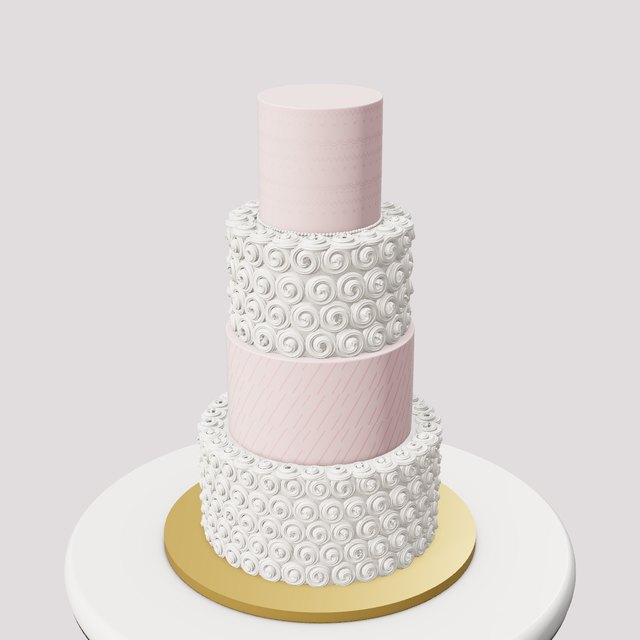
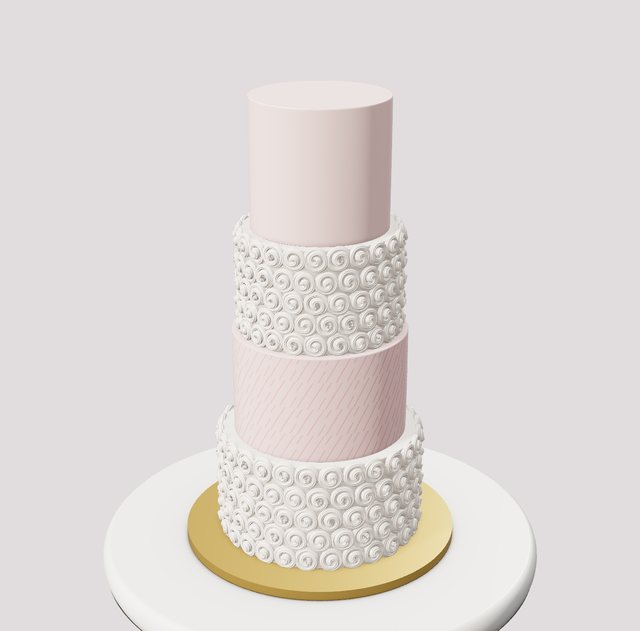
Signature cakes round 8: teal side cascade, rosette tower proportions
Claude-Session: https://claude.ai/code/session_016sN14hzH19WJ5zrp8o2QGp

diff --git a/studio.html b/studio.html
@@ -1557,15 +1557,15 @@ THEMES.unshift(
   newTier(10.6,5.4,{shape:'hexagon',color:'#cfa95f',finish:'fondant',texture:'golf',goldLeaf:true,top:'none',bottom:'none'}),
   newTier(8.6,6.2,{color:'#fbf7f1',finish:'fondant',top:'none',bottom:'none',stencil:{pattern:'pleats',color:'#ddd2c4',size:2.2,height:6.2}}),
   newTier(6.6,7,{color:'#d8b66a',finish:'fondant',goldLeaf:true,top:'pearls',pipe:'#d4ae5a',bottom:'pearls',bottomColor:'#d4ae5a',decor:[DC('monohoop','cluster',1,{color:'#d4ae5a',size:300,center:true,face:95})]})]}},
- {key:'sig_rosettower',name:'Blush Rosette Tower',tag:SIG,blurb:'White rosette tiers around a blush pleated tier, with a tall blush top tier in lace and a gold board.',d:{board:'gold',topper:'none',tiers:[
-  newTier(10,5,{texture:'rosettes',top:'none',bottom:'none'}),
-  newTier(8,4.6,{color:'#f3cfd3',finish:'fondant',top:'none',bottom:'none',stencil:{pattern:'pleats',color:'#e6b0b8',size:1.6,height:4.6}}),
-  newTier(7,4.6,{texture:'rosettes',top:'none',bottom:'none'}),
-  newTier(5,5.2,{color:'#f3cfd3',finish:'fondant',top:'none',bottom:'dpearls',bottomColor:'#fbf7f1',stencil:{pattern:'lace',color:'#e6c0c6',size:1.8,height:4.2,y:.4}})]}},
- {key:'sig_teal',name:'Teal Bauble Cascade',tag:SIG,blurb:'Three teal fondant tiers, a harlequin bottom tier and a cascade of glittery bronze, ivory and teal spheres with sprinkles.',d:{board:'white',boardColor:'#e9eaec',topper:'none',tiers:[
-  newTier(9,5,{color:'#7cc8b8',finish:'fondant',top:'none',bottom:'none',stencil:{pattern:'harlequin',color:'#c4e8df',size:1.6,height:4.6},decor:[DC('glitterspheres','cascade',6,{color:'#b0825f',rot:-30,size:300}),DC('glitterspheres','cascade',5,{color:'#f3ead8',rot:-26,size:310}),DC('spheres','cascade',4,{color:'#5fb3a3',rot:-34,size:300}),DC('glitterspheres','cascade',4,{color:'#8c6a52',rot:-30,size:230}),DC('sprinkles','cascade',160,{mix:['#5fb3a3','#d4ae5a','#c9ccd2','#fbf7f1'],rot:-24})]}),
-  newTier(7,5,{color:'#7cc8b8',finish:'fondant',top:'none',bottom:'none',decor:[DC('glitterspheres','cascade',5,{color:'#b0825f',rot:-32,size:300}),DC('glitterspheres','cascade',4,{color:'#f3ead8',rot:-26,size:300}),DC('spheres','cascade',3,{color:'#5fb3a3',rot:-36,size:290}),DC('glitterspheres','cascade',3,{color:'#8c6a52',rot:-30,size:220}),DC('sprinkles','cascade',160,{mix:['#5fb3a3','#d4ae5a','#c9ccd2','#fbf7f1'],rot:-24})]}),
-  newTier(6,4.8,{color:'#7cc8b8',finish:'fondant',top:'none',bottom:'none',decor:[DC('glitterspheres','cluster',5,{color:'#b0825f',size:330}),DC('glitterspheres','cluster',4,{color:'#f3ead8',size:310}),DC('spheres','cluster',3,{color:'#5fb3a3',size:300}),DC('glitterspheres','cascade',4,{color:'#b0825f',rot:-30,size:260}),DC('glitterspheres','cascade',3,{color:'#f3ead8',rot:-28,size:260}),DC('sprinkles','cascade',130,{mix:['#5fb3a3','#d4ae5a','#c9ccd2','#fbf7f1'],rot:-24})]})]}},
+ {key:'sig_rosettower',name:'Blush Rosette Tower',tag:SIG,blurb:'Ivory rosette tiers around a blush tier with diagonal fondant pleats, and a tall smooth blush top tier on a gold board.',d:{board:'gold',topper:'none',tiers:[
+  newTier(10,5.6,{texture:'rosettes',color:'#fbf3ea',top:'none',bottom:'none'}),
+  newTier(8.8,5.4,{color:'#f1cfcf',finish:'fondant',top:'none',bottom:'none',stencil:{pattern:'pleats',color:'#d9a7aa',size:1.4,height:5.4}}),
+  newTier(7.8,5.2,{texture:'rosettes',color:'#fbf3ea',top:'none',bottom:'none'}),
+  newTier(6.8,6.4,{color:'#f4d6d4',finish:'fondant',top:'none',bottom:'none'})]}},
+ {key:'sig_teal',name:'Teal Bauble Cascade',tag:SIG,blurb:'Three tall teal fondant tiers, a harlequin bottom tier and a column of glittery bronze, ivory and teal spheres cascading down one side, with sprinkles.',d:{board:'white',boardColor:'#e9eaec',topper:'none',tiers:[
+  newTier(8.6,6,{color:'#7cc8b8',finish:'fondant',top:'none',bottom:'none',stencil:{pattern:'harlequin',color:'#c4e8df',size:1.6,height:3,y:-1.4},decor:[DC('glitterspheres','cascade',6,{color:'#b0825f',rot:-100,size:290}),DC('glitterspheres','cascade',5,{color:'#f3ead8',rot:-96,size:300}),DC('spheres','cascade',3,{color:'#5fb3a3',rot:-104,size:280}),DC('glitterspheres','cascade',4,{color:'#8c6a52',rot:-100,size:220})]}),
+  newTier(7.6,5.8,{color:'#7cc8b8',finish:'fondant',top:'none',bottom:'none',decor:[DC('glitterspheres','cascade',5,{color:'#b0825f',rot:-100,size:280}),DC('glitterspheres','cascade',4,{color:'#f3ead8',rot:-96,size:290}),DC('spheres','cascade',3,{color:'#5fb3a3',rot:-104,size:270}),DC('glitterspheres','cascade',3,{color:'#8c6a52',rot:-100,size:210})]}),
+  newTier(6.6,5.6,{color:'#7cc8b8',finish:'fondant',top:'none',bottom:'none',decor:[DC('glitterspheres','cascade',5,{color:'#b0825f',rot:-100,size:270}),DC('glitterspheres','cascade',4,{color:'#f3ead8',rot:-96,size:280}),DC('spheres','cascade',3,{color:'#5fb3a3',rot:-104,size:260}),DC('sprinkles','cascade',220,{mix:['#5fb3a3','#d4ae5a','#c9ccd2','#fbf7f1'],rot:30})]})]}},
  {key:'sig_cow',name:'Pink Bow Cow',tag:SIG,blurb:'A tall white cow cake with black spots, a cartoon face and pink nose, black horns, floppy ears and pink bows.',d:{board:'white',boardColor:'#fbf7f1',topper:'none',tiers:[
   newTier(7,6,{color:'#ffffff',finish:'fondant',print:'cow',printColor:'#1d1b1f',top:'none',bottom:'none',decor:[DC('cowface','band',1,{color:'#f3a6c0',size:285,R:3.5,rot:55}),DC('cowtop','cluster',1,{color:'#f3a6c0',size:170,center:true,face:95})]})]}},
  {key:'sig_pillows',name:'Gold Damask Pillows',tag:SIG,blurb:'A pillow cake: a base tier in gold damask with a ring of ivory roses, a puffy pleated pillow with pinched corners and gold tassels, and a silver rose dome topped with ivory roses.',d:{board:'silver',boardShape:'square',topper:'none',tiers:[

diff --git a/tools/signature-decor.js b/tools/signature-decor.js
@@ -225,15 +225,15 @@ THEMES.unshift(
   newTier(10.6,5.4,{shape:'hexagon',color:'#cfa95f',finish:'fondant',texture:'golf',goldLeaf:true,top:'none',bottom:'none'}),
   newTier(8.6,6.2,{color:'#fbf7f1',finish:'fondant',top:'none',bottom:'none',stencil:{pattern:'pleats',color:'#ddd2c4',size:2.2,height:6.2}}),
   newTier(6.6,7,{color:'#d8b66a',finish:'fondant',goldLeaf:true,top:'pearls',pipe:'#d4ae5a',bottom:'pearls',bottomColor:'#d4ae5a',decor:[DC('monohoop','cluster',1,{color:'#d4ae5a',size:300,center:true,face:95})]})]}},
- {key:'sig_rosettower',name:'Blush Rosette Tower',tag:SIG,blurb:'White rosette tiers around a blush pleated tier, with a tall blush top tier in lace and a gold board.',d:{board:'gold',topper:'none',tiers:[
-  newTier(10,5,{texture:'rosettes',top:'none',bottom:'none'}),
-  newTier(8,4.6,{color:'#f3cfd3',finish:'fondant',top:'none',bottom:'none',stencil:{pattern:'pleats',color:'#e6b0b8',size:1.6,height:4.6}}),
-  newTier(7,4.6,{texture:'rosettes',top:'none',bottom:'none'}),
-  newTier(5,5.2,{color:'#f3cfd3',finish:'fondant',top:'none',bottom:'dpearls',bottomColor:'#fbf7f1',stencil:{pattern:'lace',color:'#e6c0c6',size:1.8,height:4.2,y:.4}})]}},
- {key:'sig_teal',name:'Teal Bauble Cascade',tag:SIG,blurb:'Three teal fondant tiers, a harlequin bottom tier and a cascade of glittery bronze, ivory and teal spheres with sprinkles.',d:{board:'white',boardColor:'#e9eaec',topper:'none',tiers:[
-  newTier(9,5,{color:'#7cc8b8',finish:'fondant',top:'none',bottom:'none',stencil:{pattern:'harlequin',color:'#c4e8df',size:1.6,height:4.6},decor:[DC('glitterspheres','cascade',6,{color:'#b0825f',rot:-30,size:300}),DC('glitterspheres','cascade',5,{color:'#f3ead8',rot:-26,size:310}),DC('spheres','cascade',4,{color:'#5fb3a3',rot:-34,size:300}),DC('glitterspheres','cascade',4,{color:'#8c6a52',rot:-30,size:230}),DC('sprinkles','cascade',160,{mix:['#5fb3a3','#d4ae5a','#c9ccd2','#fbf7f1'],rot:-24})]}),
-  newTier(7,5,{color:'#7cc8b8',finish:'fondant',top:'none',bottom:'none',decor:[DC('glitterspheres','cascade',5,{color:'#b0825f',rot:-32,size:300}),DC('glitterspheres','cascade',4,{color:'#f3ead8',rot:-26,size:300}),DC('spheres','cascade',3,{color:'#5fb3a3',rot:-36,size:290}),DC('glitterspheres','cascade',3,{color:'#8c6a52',rot:-30,size:220}),DC('sprinkles','cascade',160,{mix:['#5fb3a3','#d4ae5a','#c9ccd2','#fbf7f1'],rot:-24})]}),
-  newTier(6,4.8,{color:'#7cc8b8',finish:'fondant',top:'none',bottom:'none',decor:[DC('glitterspheres','cluster',5,{color:'#b0825f',size:330}),DC('glitterspheres','cluster',4,{color:'#f3ead8',size:310}),DC('spheres','cluster',3,{color:'#5fb3a3',size:300}),DC('glitterspheres','cascade',4,{color:'#b0825f',rot:-30,size:260}),DC('glitterspheres','cascade',3,{color:'#f3ead8',rot:-28,size:260}),DC('sprinkles','cascade',130,{mix:['#5fb3a3','#d4ae5a','#c9ccd2','#fbf7f1'],rot:-24})]})]}},
+ {key:'sig_rosettower',name:'Blush Rosette Tower',tag:SIG,blurb:'Ivory rosette tiers around a blush tier with diagonal fondant pleats, and a tall smooth blush top tier on a gold board.',d:{board:'gold',topper:'none',tiers:[
+  newTier(10,5.6,{texture:'rosettes',color:'#fbf3ea',top:'none',bottom:'none'}),
+  newTier(8.8,5.4,{color:'#f1cfcf',finish:'fondant',top:'none',bottom:'none',stencil:{pattern:'pleats',color:'#d9a7aa',size:1.4,height:5.4}}),
+  newTier(7.8,5.2,{texture:'rosettes',color:'#fbf3ea',top:'none',bottom:'none'}),
+  newTier(6.8,6.4,{color:'#f4d6d4',finish:'fondant',top:'none',bottom:'none'})]}},
+ {key:'sig_teal',name:'Teal Bauble Cascade',tag:SIG,blurb:'Three tall teal fondant tiers, a harlequin bottom tier and a column of glittery bronze, ivory and teal spheres cascading down one side, with sprinkles.',d:{board:'white',boardColor:'#e9eaec',topper:'none',tiers:[
+  newTier(8.6,6,{color:'#7cc8b8',finish:'fondant',top:'none',bottom:'none',stencil:{pattern:'harlequin',color:'#c4e8df',size:1.6,height:3,y:-1.4},decor:[DC('glitterspheres','cascade',6,{color:'#b0825f',rot:-100,size:290}),DC('glitterspheres','cascade',5,{color:'#f3ead8',rot:-96,size:300}),DC('spheres','cascade',3,{color:'#5fb3a3',rot:-104,size:280}),DC('glitterspheres','cascade',4,{color:'#8c6a52',rot:-100,size:220})]}),
+  newTier(7.6,5.8,{color:'#7cc8b8',finish:'fondant',top:'none',bottom:'none',decor:[DC('glitterspheres','cascade',5,{color:'#b0825f',rot:-100,size:280}),DC('glitterspheres','cascade',4,{color:'#f3ead8',rot:-96,size:290}),DC('spheres','cascade',3,{color:'#5fb3a3',rot:-104,size:270}),DC('glitterspheres','cascade',3,{color:'#8c6a52',rot:-100,size:210})]}),
+  newTier(6.6,5.6,{color:'#7cc8b8',finish:'fondant',top:'none',bottom:'none',decor:[DC('glitterspheres','cascade',5,{color:'#b0825f',rot:-100,size:270}),DC('glitterspheres','cascade',4,{color:'#f3ead8',rot:-96,size:280}),DC('spheres','cascade',3,{color:'#5fb3a3',rot:-104,size:260}),DC('sprinkles','cascade',220,{mix:['#5fb3a3','#d4ae5a','#c9ccd2','#fbf7f1'],rot:30})]})]}},
  {key:'sig_cow',name:'Pink Bow Cow',tag:SIG,blurb:'A tall white cow cake with black spots, a cartoon face and pink nose, black horns, floppy ears and pink bows.',d:{board:'white',boardColor:'#fbf7f1',topper:'none',tiers:[
   newTier(7,6,{color:'#ffffff',finish:'fondant',print:'cow',printColor:'#1d1b1f',top:'none',bottom:'none',decor:[DC('cowface','band',1,{color:'#f3a6c0',size:285,R:3.5,rot:55}),DC('cowtop','cluster',1,{color:'#f3a6c0',size:170,center:true,face:95})]})]}},
  {key:'sig_pillows',name:'Gold Damask Pillows',tag:SIG,blurb:'A pillow cake: a base tier in gold damask with a ring of ivory roses, a puffy pleated pillow with pinched corners and gold tassels, and a silver rose dome topped with ivory roses.',d:{board:'silver',boardShape:'square',topper:'none',tiers:[

diff --git a/tools/sig-themes.js b/tools/sig-themes.js
@@ -12,15 +12,15 @@ THEMES.unshift(
   newTier(10.6,5.4,{shape:'hexagon',color:'#cfa95f',finish:'fondant',texture:'golf',goldLeaf:true,top:'none',bottom:'none'}),
   newTier(8.6,6.2,{color:'#fbf7f1',finish:'fondant',top:'none',bottom:'none',stencil:{pattern:'pleats',color:'#ddd2c4',size:2.2,height:6.2}}),
   newTier(6.6,7,{color:'#d8b66a',finish:'fondant',goldLeaf:true,top:'pearls',pipe:'#d4ae5a',bottom:'pearls',bottomColor:'#d4ae5a',decor:[DC('monohoop','cluster',1,{color:'#d4ae5a',size:300,center:true,face:95})]})]}},
- {key:'sig_rosettower',name:'Blush Rosette Tower',tag:SIG,blurb:'White rosette tiers around a blush pleated tier, with a tall blush top tier in lace and a gold board.',d:{board:'gold',topper:'none',tiers:[
-  newTier(10,5,{texture:'rosettes',top:'none',bottom:'none'}),
-  newTier(8,4.6,{color:'#f3cfd3',finish:'fondant',top:'none',bottom:'none',stencil:{pattern:'pleats',color:'#e6b0b8',size:1.6,height:4.6}}),
-  newTier(7,4.6,{texture:'rosettes',top:'none',bottom:'none'}),
-  newTier(5,5.2,{color:'#f3cfd3',finish:'fondant',top:'none',bottom:'dpearls',bottomColor:'#fbf7f1',stencil:{pattern:'lace',color:'#e6c0c6',size:1.8,height:4.2,y:.4}})]}},
- {key:'sig_teal',name:'Teal Bauble Cascade',tag:SIG,blurb:'Three teal fondant tiers, a harlequin bottom tier and a cascade of glittery bronze, ivory and teal spheres with sprinkles.',d:{board:'white',boardColor:'#e9eaec',topper:'none',tiers:[
-  newTier(9,5,{color:'#7cc8b8',finish:'fondant',top:'none',bottom:'none',stencil:{pattern:'harlequin',color:'#c4e8df',size:1.6,height:4.6},decor:[DC('glitterspheres','cascade',6,{color:'#b0825f',rot:-30,size:300}),DC('glitterspheres','cascade',5,{color:'#f3ead8',rot:-26,size:310}),DC('spheres','cascade',4,{color:'#5fb3a3',rot:-34,size:300}),DC('glitterspheres','cascade',4,{color:'#8c6a52',rot:-30,size:230}),DC('sprinkles','cascade',160,{mix:['#5fb3a3','#d4ae5a','#c9ccd2','#fbf7f1'],rot:-24})]}),
-  newTier(7,5,{color:'#7cc8b8',finish:'fondant',top:'none',bottom:'none',decor:[DC('glitterspheres','cascade',5,{color:'#b0825f',rot:-32,size:300}),DC('glitterspheres','cascade',4,{color:'#f3ead8',rot:-26,size:300}),DC('spheres','cascade',3,{color:'#5fb3a3',rot:-36,size:290}),DC('glitterspheres','cascade',3,{color:'#8c6a52',rot:-30,size:220}),DC('sprinkles','cascade',160,{mix:['#5fb3a3','#d4ae5a','#c9ccd2','#fbf7f1'],rot:-24})]}),
-  newTier(6,4.8,{color:'#7cc8b8',finish:'fondant',top:'none',bottom:'none',decor:[DC('glitterspheres','cluster',5,{color:'#b0825f',size:330}),DC('glitterspheres','cluster',4,{color:'#f3ead8',size:310}),DC('spheres','cluster',3,{color:'#5fb3a3',size:300}),DC('glitterspheres','cascade',4,{color:'#b0825f',rot:-30,size:260}),DC('glitterspheres','cascade',3,{color:'#f3ead8',rot:-28,size:260}),DC('sprinkles','cascade',130,{mix:['#5fb3a3','#d4ae5a','#c9ccd2','#fbf7f1'],rot:-24})]})]}},
+ {key:'sig_rosettower',name:'Blush Rosette Tower',tag:SIG,blurb:'Ivory rosette tiers around a blush tier with diagonal fondant pleats, and a tall smooth blush top tier on a gold board.',d:{board:'gold',topper:'none',tiers:[
+  newTier(10,5.6,{texture:'rosettes',color:'#fbf3ea',top:'none',bottom:'none'}),
+  newTier(8.8,5.4,{color:'#f1cfcf',finish:'fondant',top:'none',bottom:'none',stencil:{pattern:'pleats',color:'#d9a7aa',size:1.4,height:5.4}}),
+  newTier(7.8,5.2,{texture:'rosettes',color:'#fbf3ea',top:'none',bottom:'none'}),
+  newTier(6.8,6.4,{color:'#f4d6d4',finish:'fondant',top:'none',bottom:'none'})]}},
+ {key:'sig_teal',name:'Teal Bauble Cascade',tag:SIG,blurb:'Three tall teal fondant tiers, a harlequin bottom tier and a column of glittery bronze, ivory and teal spheres cascading down one side, with sprinkles.',d:{board:'white',boardColor:'#e9eaec',topper:'none',tiers:[
+  newTier(8.6,6,{color:'#7cc8b8',finish:'fondant',top:'none',bottom:'none',stencil:{pattern:'harlequin',color:'#c4e8df',size:1.6,height:3,y:-1.4},decor:[DC('glitterspheres','cascade',6,{color:'#b0825f',rot:-100,size:290}),DC('glitterspheres','cascade',5,{color:'#f3ead8',rot:-96,size:300}),DC('spheres','cascade',3,{color:'#5fb3a3',rot:-104,size:280}),DC('glitterspheres','cascade',4,{color:'#8c6a52',rot:-100,size:220})]}),
+  newTier(7.6,5.8,{color:'#7cc8b8',finish:'fondant',top:'none',bottom:'none',decor:[DC('glitterspheres','cascade',5,{color:'#b0825f',rot:-100,size:280}),DC('glitterspheres','cascade',4,{color:'#f3ead8',rot:-96,size:290}),DC('spheres','cascade',3,{color:'#5fb3a3',rot:-104,size:270}),DC('glitterspheres','cascade',3,{color:'#8c6a52',rot:-100,size:210})]}),
+  newTier(6.6,5.6,{color:'#7cc8b8',finish:'fondant',top:'none',bottom:'none',decor:[DC('glitterspheres','cascade',5,{color:'#b0825f',rot:-100,size:270}),DC('glitterspheres','cascade',4,{color:'#f3ead8',rot:-96,size:280}),DC('spheres','cascade',3,{color:'#5fb3a3',rot:-104,size:260}),DC('sprinkles','cascade',220,{mix:['#5fb3a3','#d4ae5a','#c9ccd2','#fbf7f1'],rot:30})]})]}},
  {key:'sig_cow',name:'Pink Bow Cow',tag:SIG,blurb:'A tall white cow cake with black spots, a cartoon face and pink nose, black horns, floppy ears and pink bows.',d:{board:'white',boardColor:'#fbf7f1',topper:'none',tiers:[
   newTier(7,6,{color:'#ffffff',finish:'fondant',print:'cow',printColor:'#1d1b1f',top:'none',bottom:'none',decor:[DC('cowface','band',1,{color:'#f3a6c0',size:285,R:3.5,rot:55}),DC('cowtop','cluster',1,{color:'#f3a6c0',size:170,center:true,face:95})]})]}},
  {key:'sig_pillows',name:'Gold Damask Pillows',tag:SIG,blurb:'A pillow cake: a base tier in gold damask with a ring of ivory roses, a puffy pleated pillow with pinched corners and gold tassels, and a silver rose dome topped with ivory roses.',d:{board:'silver',boardShape:'square',topper:'none',tiers:[
